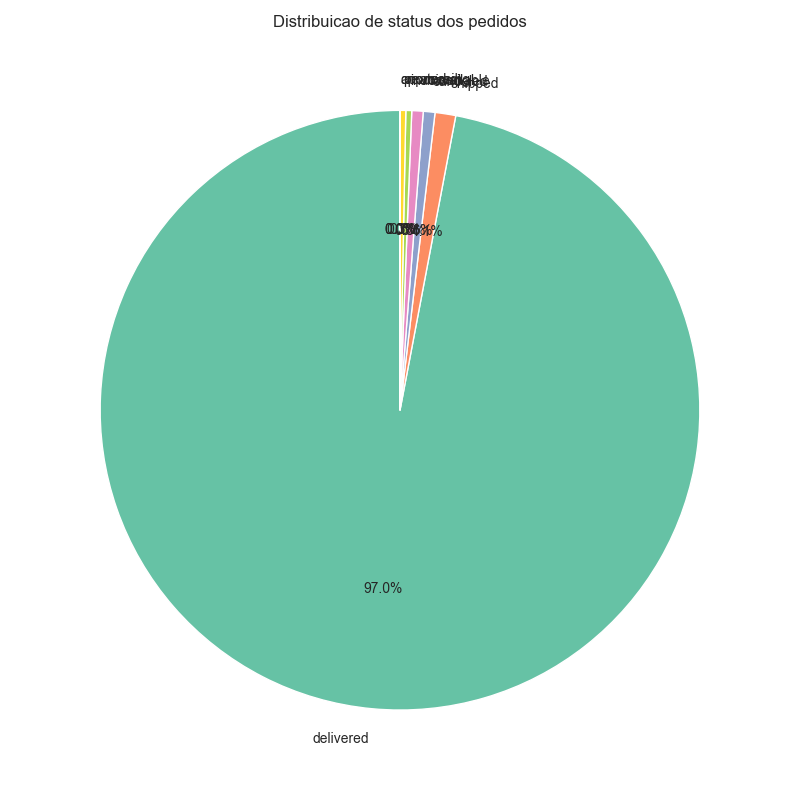
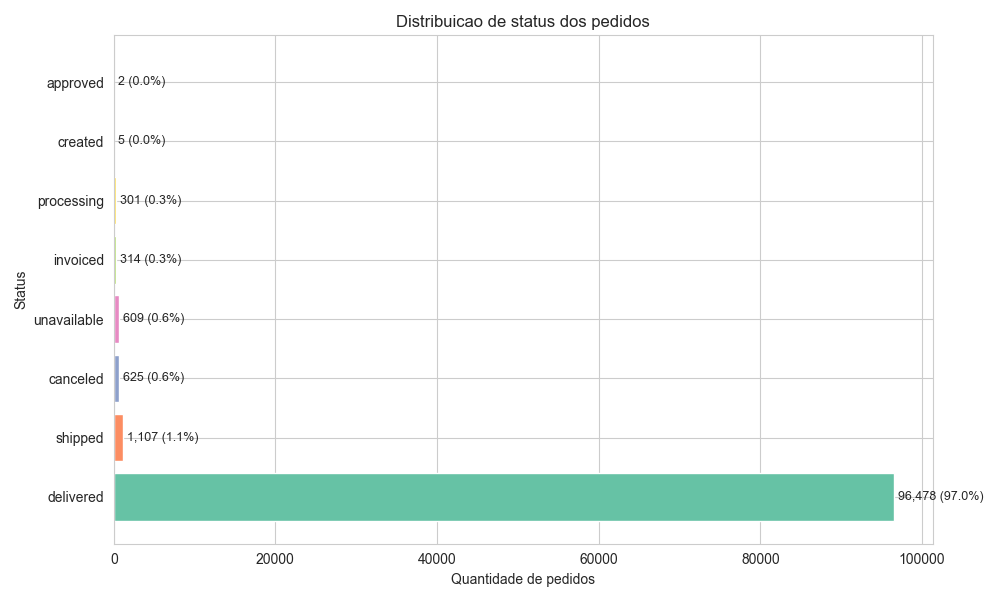
fix: improve visualizations and remove unnecessary graphs
- Replace pie chart with horizontal bar chart for order status (more readable)
- Cut orders_by_month data at 2018-08 (incomplete data after)
- Remove top10_products_by_orders graph (showed hashes)
- Remove top10_states_by_customers graph (as requested)
- Remove gold_customers_by_state.csv

diff --git a/src/visualizations.py b/src/visualizations.py
@@ -137,34 +137,22 @@ def generate_all_visualizations(
 
     # ========== VISUALIZACOES ADICIONAIS ==========
 
-    # 6. Distribuicao de clientes por estado (top 10)
-    if "customer_state" in df_customers.columns:
-        plt.figure(figsize=(10, 6))
-        state_counts = df_customers["customer_state"].value_counts().head(10)
-        colors = sns.color_palette("viridis", len(state_counts))
-        plt.bar(state_counts.index, state_counts.values, color=colors)
-        plt.title("Top 10 estados por numero de clientes")
-        plt.xlabel("Estado")
-        plt.ylabel("Numero de clientes")
-        plt.xticks(rotation=45)
-        plt.tight_layout()
-        path = output_dir / "top10_states_by_customers.png"
-        plt.savefig(path)
-        plt.close()
-        figure_paths["top10_states_by_customers"] = path
-
-    # 7. Pedidos por mes (evolucao temporal)
+    # 6. Pedidos por mes (evolucao temporal) - corte em 2018-08
     if "order_purchase_timestamp" in df_orders.columns:
         df_orders_temp = df_orders.copy()
         df_orders_temp["order_purchase_timestamp"] = pd.to_datetime(
             df_orders_temp["order_purchase_timestamp"]
         )
+        # Filtrar ate 2018-08 (dados incompletos apos essa data)
+        df_orders_temp = df_orders_temp[
+            df_orders_temp["order_purchase_timestamp"] < "2018-09-01"
+        ]
         df_orders_temp["year_month"] = df_orders_temp["order_purchase_timestamp"].dt.to_period("M")
         orders_by_month = df_orders_temp.groupby("year_month").size()
 
         plt.figure(figsize=(12, 5))
-        plt.plot(orders_by_month.index.astype(str), orders_by_month.values, marker="o", linewidth=2)
-        plt.title("Evolucao mensal de pedidos")
+        plt.plot(orders_by_month.index.astype(str), orders_by_month.values, marker="o", linewidth=2, color="steelblue")
+        plt.title("Evolucao mensal de pedidos (2016-2018)")
         plt.xlabel("Mes/Ano")
         plt.ylabel("Quantidade de pedidos")
         plt.xticks(rotation=45)
@@ -175,19 +163,20 @@ def generate_all_visualizations(
         plt.close()
         figure_paths["orders_by_month"] = path
 
-    # 8. Status dos pedidos (pie chart)
+    # 7. Status dos pedidos (grafico de barras horizontal - mais legivel)
     if "order_status" in df_orders.columns:
-        plt.figure(figsize=(8, 8))
+        plt.figure(figsize=(10, 6))
         status_counts = df_orders["order_status"].value_counts()
         colors = sns.color_palette("Set2", len(status_counts))
-        plt.pie(
-            status_counts.values,
-            labels=status_counts.index,
-            autopct="%1.1f%%",
-            colors=colors,
-            startangle=90,
-        )
+        bars = plt.barh(status_counts.index, status_counts.values, color=colors)
         plt.title("Distribuicao de status dos pedidos")
+        plt.xlabel("Quantidade de pedidos")
+        plt.ylabel("Status")
+        # Adicionar valores nas barras
+        for bar, value in zip(bars, status_counts.values):
+            percentage = (value / status_counts.sum()) * 100
+            plt.text(value + 500, bar.get_y() + bar.get_height()/2, 
+                     f"{value:,} ({percentage:.1f}%)", va="center", fontsize=9)
         plt.tight_layout()
         path = output_dir / "order_status_distribution.png"
         plt.savefig(path)

diff --git a/src/gold_metrics.py b/src/gold_metrics.py
@@ -174,23 +174,16 @@ def build_gold_tables(
         revenue_by_category.to_csv(config.GOLD_DIR / "gold_revenue_by_category.csv")
         print("  - gold_revenue_by_category.csv")
 
-    # 2. Analise por estado
-    if "customer_state" in df_customers.columns:
-        customers_by_state = (
-            df_customers["customer_state"]
-            .value_counts()
-            .reset_index()
-        )
-        customers_by_state.columns = ["state", "customer_count"]
-        customers_by_state.to_csv(config.GOLD_DIR / "gold_customers_by_state.csv", index=False)
-        print("  - gold_customers_by_state.csv")
-
-    # 3. Pedidos por mes (analise temporal)
+    # 2. Pedidos por mes (analise temporal) - corte em 2018-08
     if "order_purchase_timestamp" in df_orders.columns:
         df_orders_temp = df_orders.copy()
         df_orders_temp["order_purchase_timestamp"] = pd.to_datetime(
             df_orders_temp["order_purchase_timestamp"]
         )
+        # Filtrar ate 2018-08 (dados incompletos apos essa data)
+        df_orders_temp = df_orders_temp[
+            df_orders_temp["order_purchase_timestamp"] < "2018-09-01"
+        ]
         df_orders_temp["year_month"] = df_orders_temp["order_purchase_timestamp"].dt.to_period("M")
         orders_by_month = (
             df_orders_temp.groupby("year_month")

diff --git a/src/pipeline.py b/src/pipeline.py
@@ -54,11 +54,10 @@ def run_full_pipeline() -> None:
     print("Gold files          :")
     print("  - gold_category_analysis.csv")
     print("  - gold_customers_by_region.csv")
-    print("  - gold_customers_by_state.csv")
     print("  - gold_product_recommendation_stats.csv")
     print("  - gold_customer_category_history.csv")
     print("  - gold_revenue_by_category.csv")
-    print("  - gold_orders_by_month.csv")
+    print("  - gold_orders_by_month.csv (ate 2018-08)")
     print("  - gold_order_status_distribution.csv")
     print("  - gold_avg_ticket_by_region.csv")
     print("  - gold_top_insights.csv")
